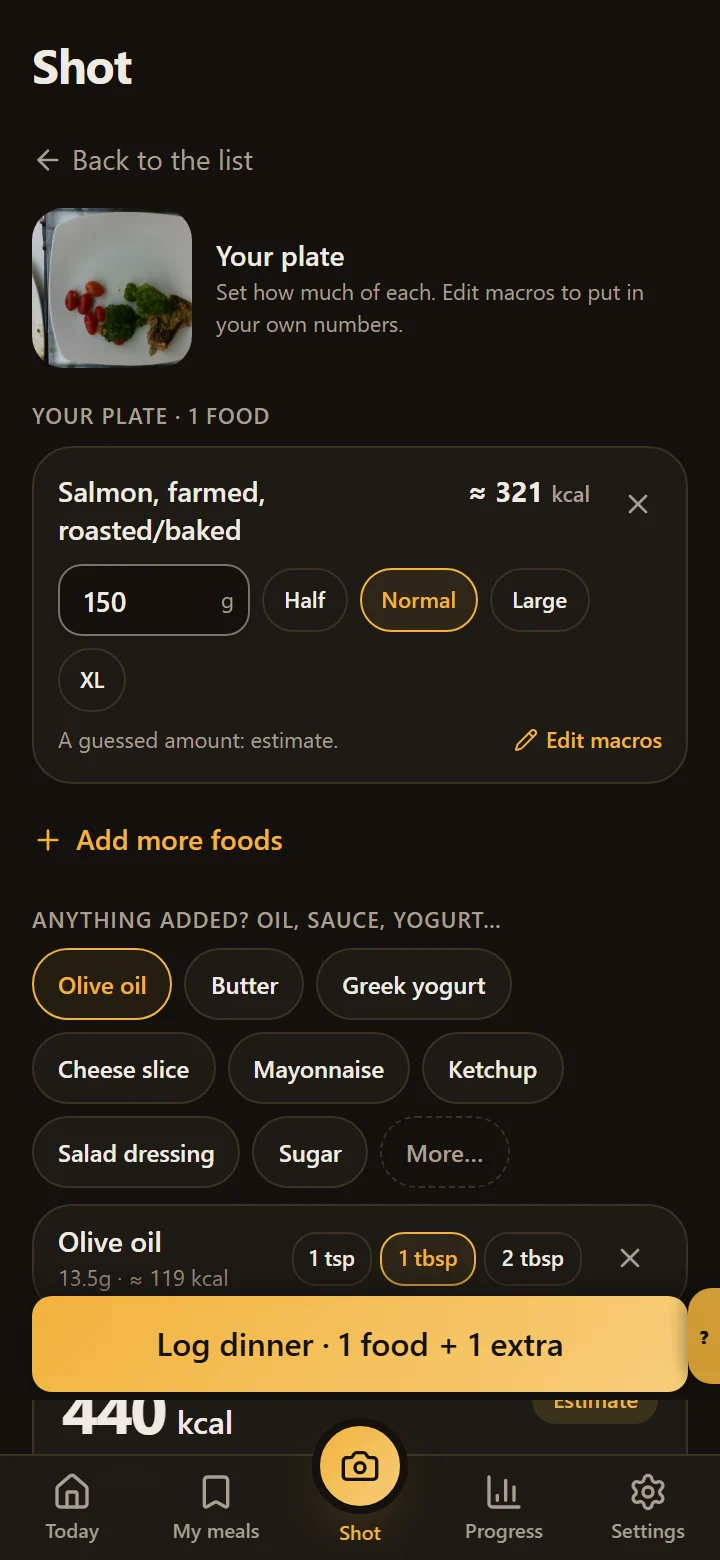
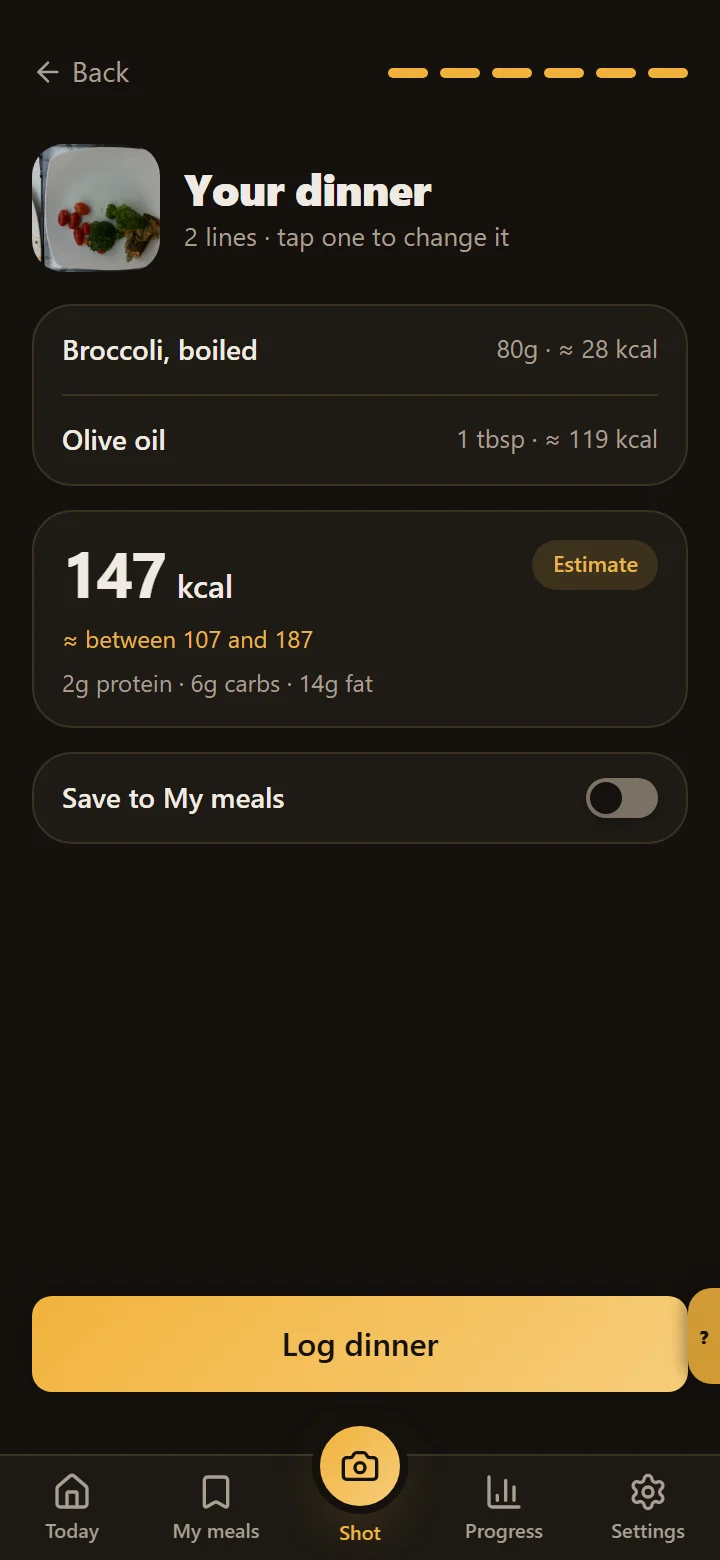
feat(site): nutrition 0.1.6 app screens: Shot check step, plate photos on Today and My meals
Today, the plate photo slide and My meals recaptured from the 0.1.6 build; the
sample plate photos carry the Nutrition5k credit under the hero phone and in the carousel.

diff --git a/src/lib/content.ts b/src/lib/content.ts
@@ -75,19 +75,21 @@ export const features: Array<{ title: string; description: string; icon: Feature
 ];
 
 /**
- * App screenshots in public/screenshots/ (WebP, 720 × 1560, recorded 20 October 2026 with sample data in the app's default
+ * App screenshots in public/screenshots/ (WebP, 720 × 1560, recorded 20 October 2026 (Today, the plate photo and My meals again on 22 October, app 0.1.6) with sample data in the app's default
  * dark Fig look, by the app repo's scripts/store/capture-site.mjs). `carousel: true`
- * marks the current set: it drives the home page carousel, the structured data and the image sitemap.
+ * marks the current set: it drives the home page carousel, the structured data and the image sitemap. `credit: true` marks a
+ * screen that shows a sample plate photo from the Nutrition5k dataset (CC BY 4.0): the site shows `photoCredit` under it.
  */
 export const screenshots = [
   {
     id: "today",
     file: "ironbuddy-nutrition-today-calories-protein.webp",
     label: "Today",
-    alt: "IronBuddy Nutrition calorie counter Today screen: 391 kcal left of 2,040, 35g of protein to go, meals each marked Exact or Estimate",
+    alt: "IronBuddy Nutrition calorie counter Today screen: 391 kcal left of 2,040, 35g of protein to go, meals each marked Exact or Estimate, a plate photo next to the meal it was logged from",
     width: 720,
     height: 1560,
     carousel: true,
+    credit: true,
   },
   {
     id: "camera",
@@ -102,10 +104,11 @@ export const screenshots = [
     id: "photo",
     file: "ironbuddy-nutrition-photo-portion-oil.webp",
     label: "Photo of Your Plate",
-    alt: "Photo food logging: baked salmon from the plate photo, normal portion of about 150g, olive oil picked as an extra",
+    alt: "Photo food logging, the last step of Shot: your dinner from the plate photo, boiled broccoli 80g and a tablespoon of olive oil, about 147 kcal as an Estimate, checked before it is logged",
     width: 720,
     height: 1560,
     carousel: true,
+    credit: true,
   },
   {
     id: "barcode",
@@ -156,12 +159,16 @@ export const screenshots = [
     id: "meals",
     file: "ironbuddy-nutrition-saved-meals.webp",
     label: "My Meals",
-    alt: "My meals: saved meals logged again in two taps, oats with milk and banana, Greek yogurt with honey, all Exact",
+    alt: "My meals as cards: saved meals logged again in two taps, oats with milk and banana, Greek yogurt with honey, chicken, rice and broccoli with its plate photo, all Exact",
     width: 720,
     height: 1560,
     carousel: true,
+    credit: true,
   },
 ] as const;
+
+/** Credit for the sample plate photos in the screenshots marked `credit: true`. */
+export const photoCredit = "Sample photos: Nutrition5k dataset, Google Research, CC BY 4.0";
 
 /** The current screenshot set (see above). */
 export const appScreenshots = screenshots.filter((shot) => shot.carousel);

diff --git a/src/components/sections/Hero.tsx b/src/components/sections/Hero.tsx
@@ -3,7 +3,7 @@ import { Container } from "@/components/Container";
 import { ExploreIronBuddyButton } from "@/components/ExploreIronBuddyButton";
 import { GooglePlayButton } from "@/components/GooglePlayButton";
 import { Icon } from "@/components/icons";
-import { heroBullets, heroHighlights, screenshotSrc } from "@/lib/content";
+import { heroBullets, heroHighlights, photoCredit, screenshotSrc } from "@/lib/content";
 import { siteConfig } from "@/lib/site";
 import { preload } from "react-dom";
 
@@ -78,12 +78,13 @@ export function Hero() {
           </div>
         </div>
 
-        <div className="relative flex min-h-0 items-center justify-center animate-fade-up max-lg:order-1">
+        <div className="relative flex min-h-0 flex-col items-center justify-center animate-fade-up max-lg:order-1">
           <div className="pointer-events-none absolute left-1/2 top-1/2 h-72 w-72 -translate-x-1/2 -translate-y-1/2 rounded-full bg-primary/12 blur-3xl" />
           {/* Width also shrinks on short screens (100svh minus header, install bar and text block) so the phone is never clipped. */}
           <PhoneMockup float className="relative max-lg:w-[min(200px,calc((100svh_-_25rem)_*_0.4615))]">
             <AppScreen id="today" priority />
           </PhoneMockup>
+          <p className="relative mt-2 text-center text-[10px] leading-tight text-muted">{photoCredit}</p>
         </div>
       </Container>
     </section>

diff --git a/src/components/ScreenshotCarousel.tsx b/src/components/ScreenshotCarousel.tsx
@@ -3,7 +3,7 @@
 import { useEffect, useRef, useState } from "react";
 import { AppScreen, PhoneMockup } from "@/components/PhoneMockup";
 import { Icon } from "@/components/icons";
-import { appScreenshots as screenshots } from "@/lib/content";
+import { appScreenshots as screenshots, photoCredit } from "@/lib/content";
 import { cn } from "@/lib/cn";
 
 export function ScreenshotCarousel() {
@@ -60,6 +60,9 @@ export function ScreenshotCarousel() {
             </PhoneMockup>
             <figcaption className="mt-2 text-center text-sm font-medium text-white lg:mt-5">
               {shot.label}
+              {"credit" in shot && (
+                <span className="mt-1 block text-[10px] font-normal leading-tight text-muted">{photoCredit}</span>
+              )}
             </figcaption>
           </figure>
         ))}
